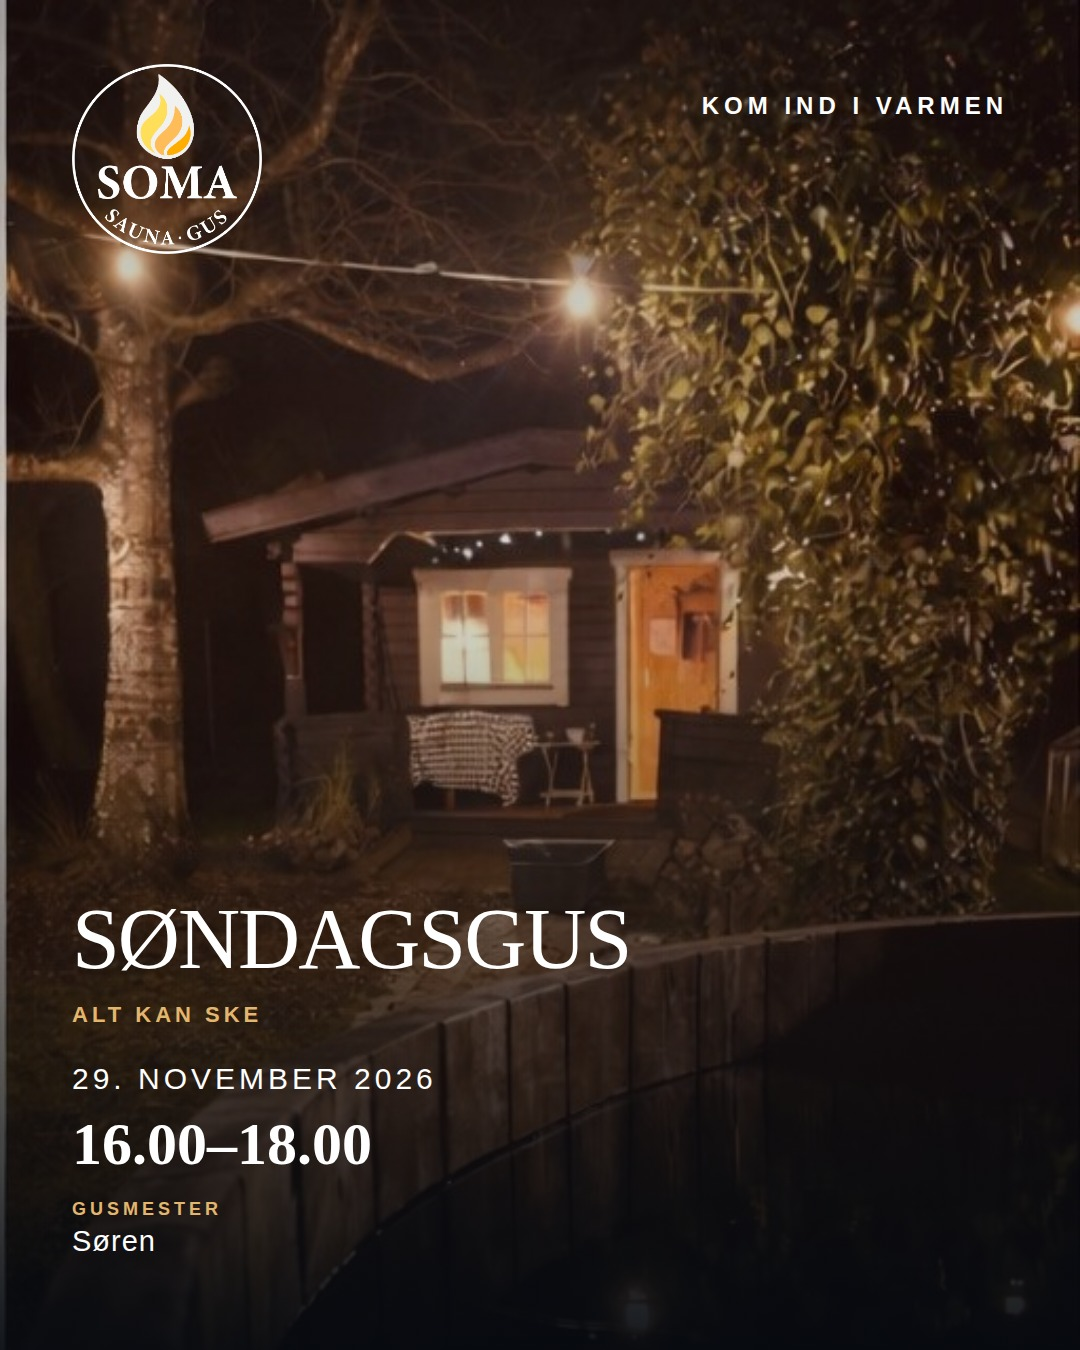
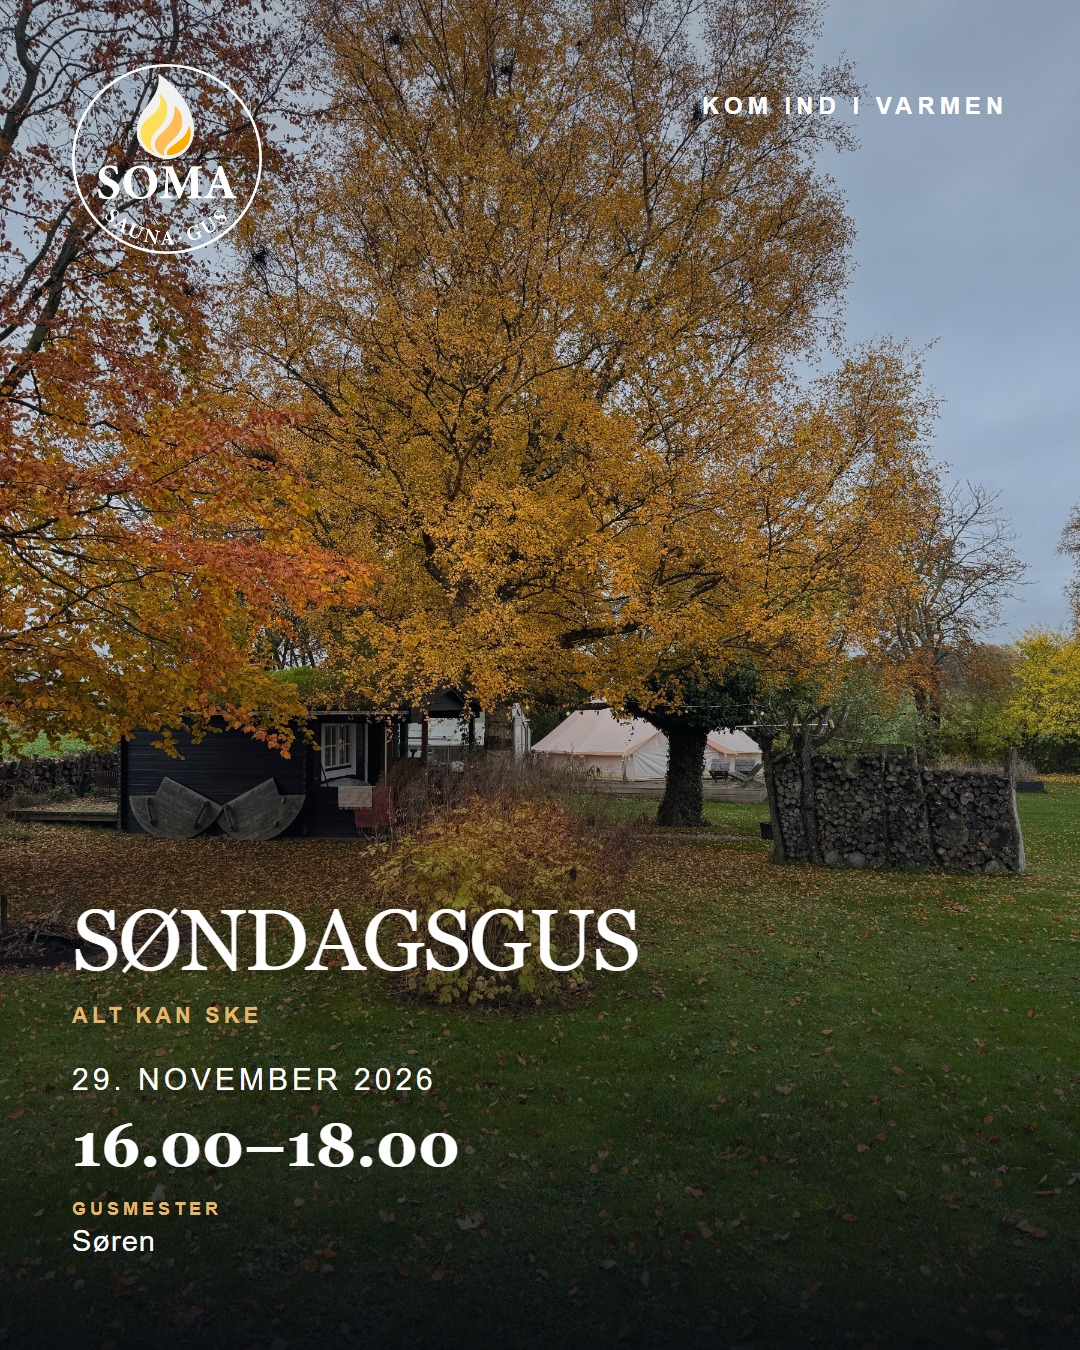
change-image: 2026-11-29_16-00_saunagus_event-day_r1 til soma-img-7321 via lokal godkendelsesside

diff --git a/outputs/content-planner/approval/drafts-data.js b/outputs/content-planner/approval/drafts-data.js
@@ -1632,7 +1632,7 @@ window.__SOMA_DRAFTS__ = window.__SOMA_DRAFTS__ || [
       "instagram": "I dag: Kom ind i varmen og mærk kroppen finde ro.\n\n29. november 2026 · 16.00–18.00\n\n12 ledige pladser.\n\nBook din plads: https://somasaunagus.dk/kalender/",
       "facebookPage": "Dato og tid: 29. november 2026 · 16.00–18.00\n\n12 ledige pladser.\n\nBook din plads: https://somasaunagus.dk/kalender/\n\nI dag kan du træde ind i varmen til et saunagus.\n\nKom ind i varmen og mærk kroppen finde ro.\n\nSøndagens udtryk får lov at skifte, mens nærvær og velvære er fundamentet.\n\nGiv dig selv tid til at lande og bare være til stede."
     },
[2 lines of base64/hex data omitted]
     "factsUsed": [
       "event.date",
       "event.start",
@@ -1640,18 +1640,25 @@ window.__SOMA_DRAFTS__ = window.__SOMA_DRAFTS__ || [
       "event.name",
       "profile:soren"
     ],
-    "assetId": "soma-winter-night",
+    "assetId": "soma-img-7321",
     "render": {
       "path": "renders/2026-11-29_16-00_saunagus_event-day-fd9a05d472.jpg",
       "width": 1080,
       "height": 1350,
[2 lines of base64/hex data omitted]
     },
     "renderPath": "renders/2026-11-29_16-00_saunagus_event-day-fd9a05d472.jpg",
     "manualInstructor": null,
-    "manualAssetId": null,
-    "history": [],
[1 lines of base64/hex data omitted]
+    "manualAssetId": "soma-img-7321",
+    "history": [
+      {
+        "at": "2026-11-08T08:58:01.722Z",
+        "type": "change_image",
+        "from": "draft",
+        "to": "draft"
+      }
+    ],
[1 lines of base64/hex data omitted]
     "approvedAt": null,
     "approvedBy": null,
     "approvedRevision": null,
